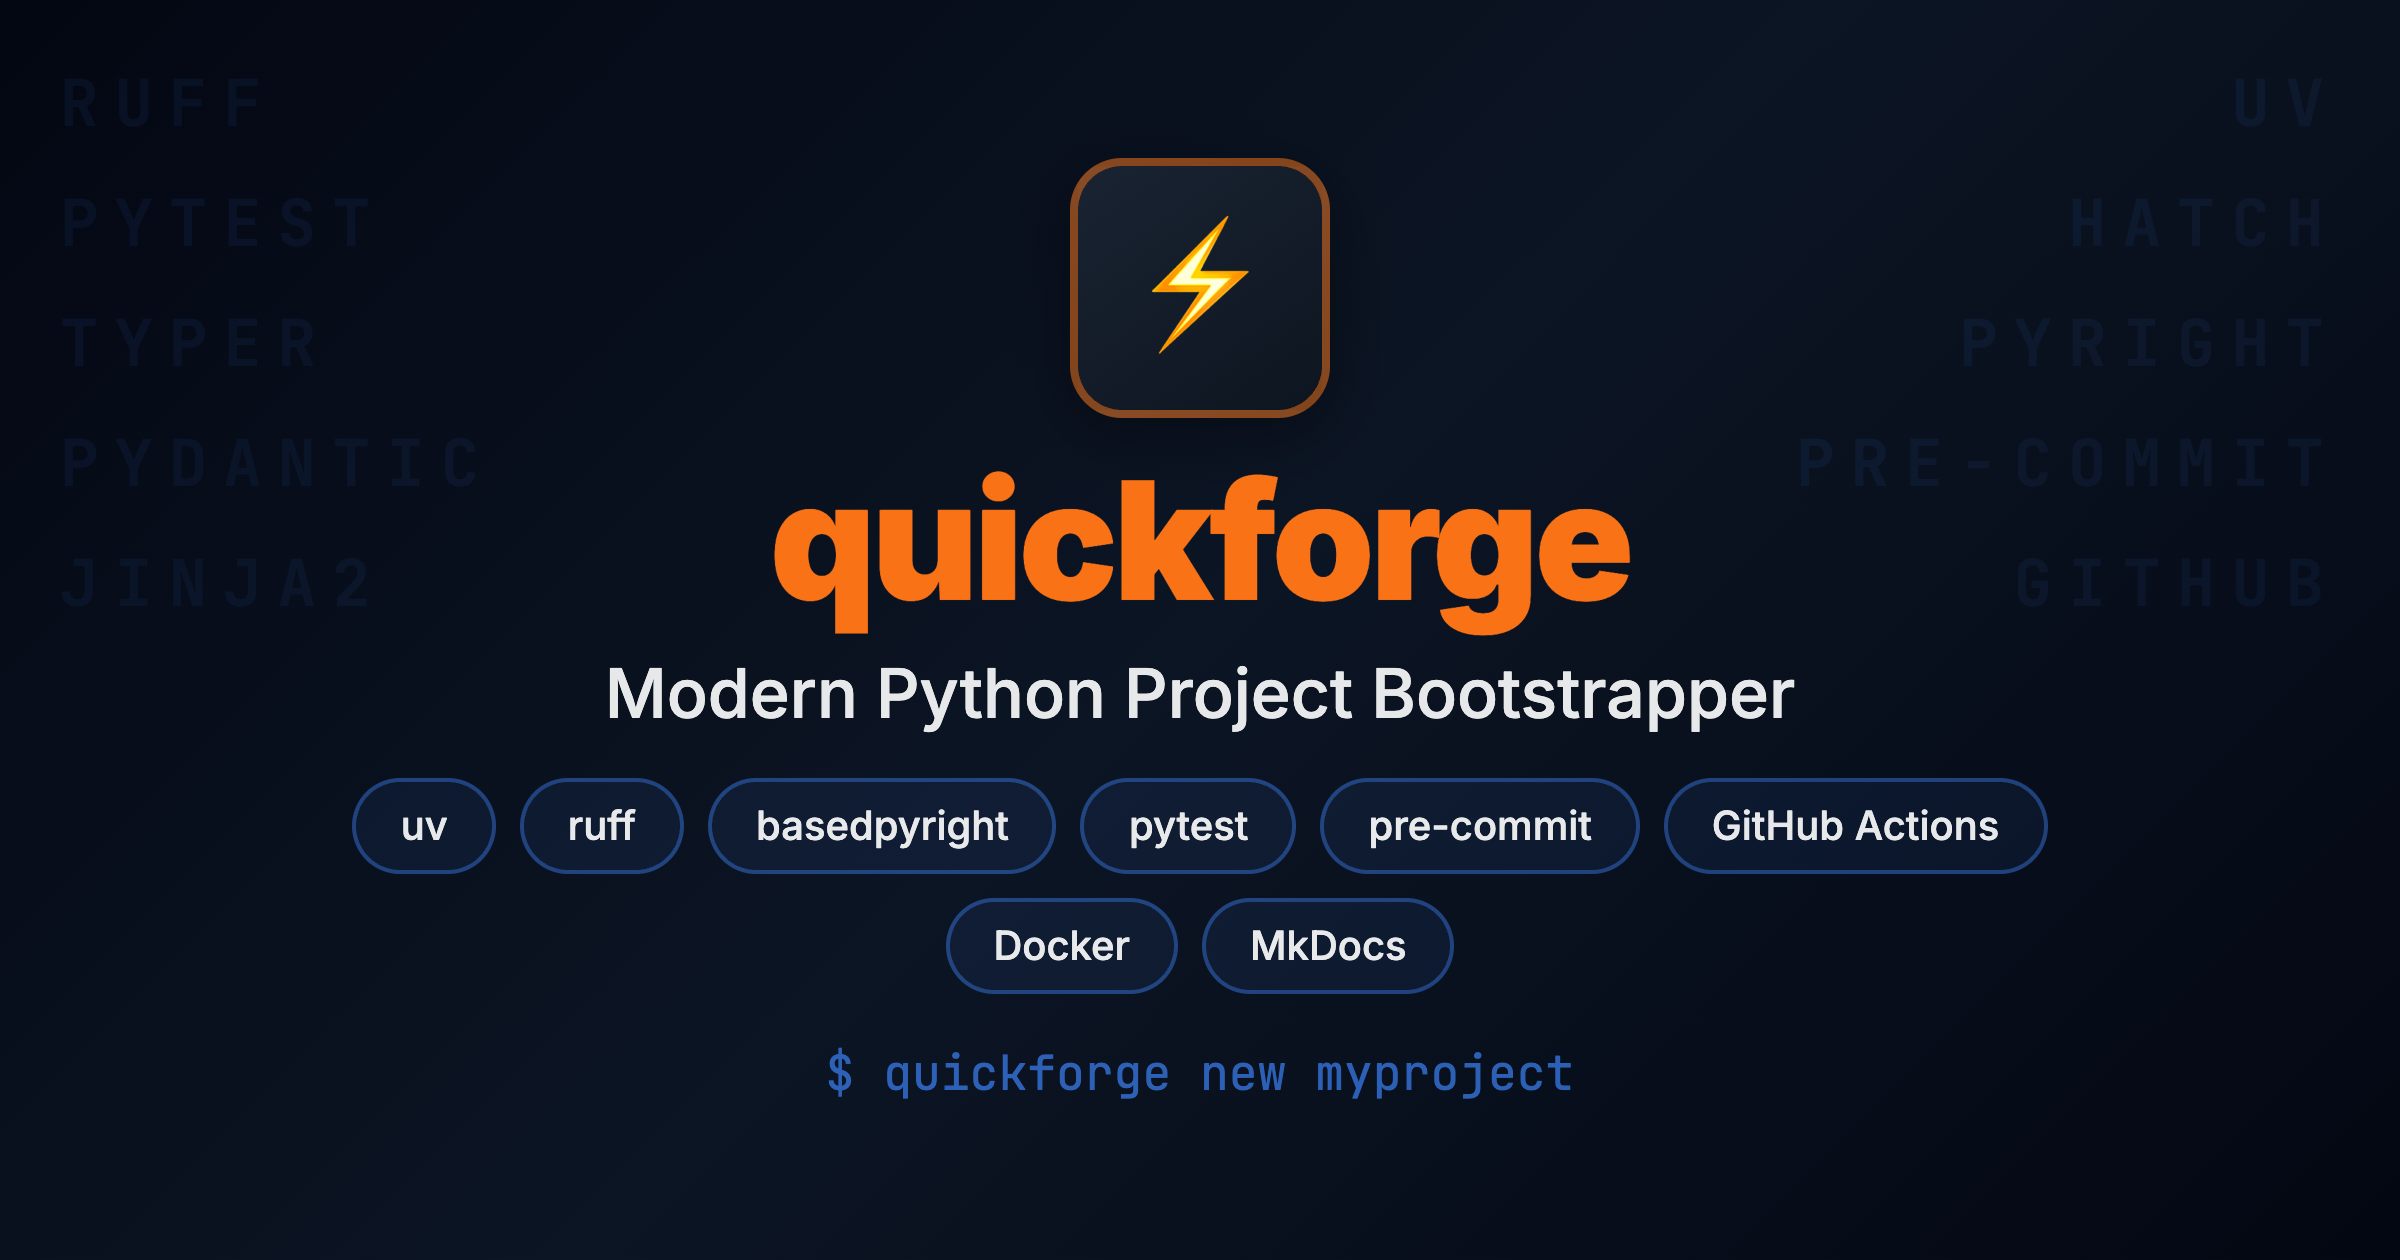
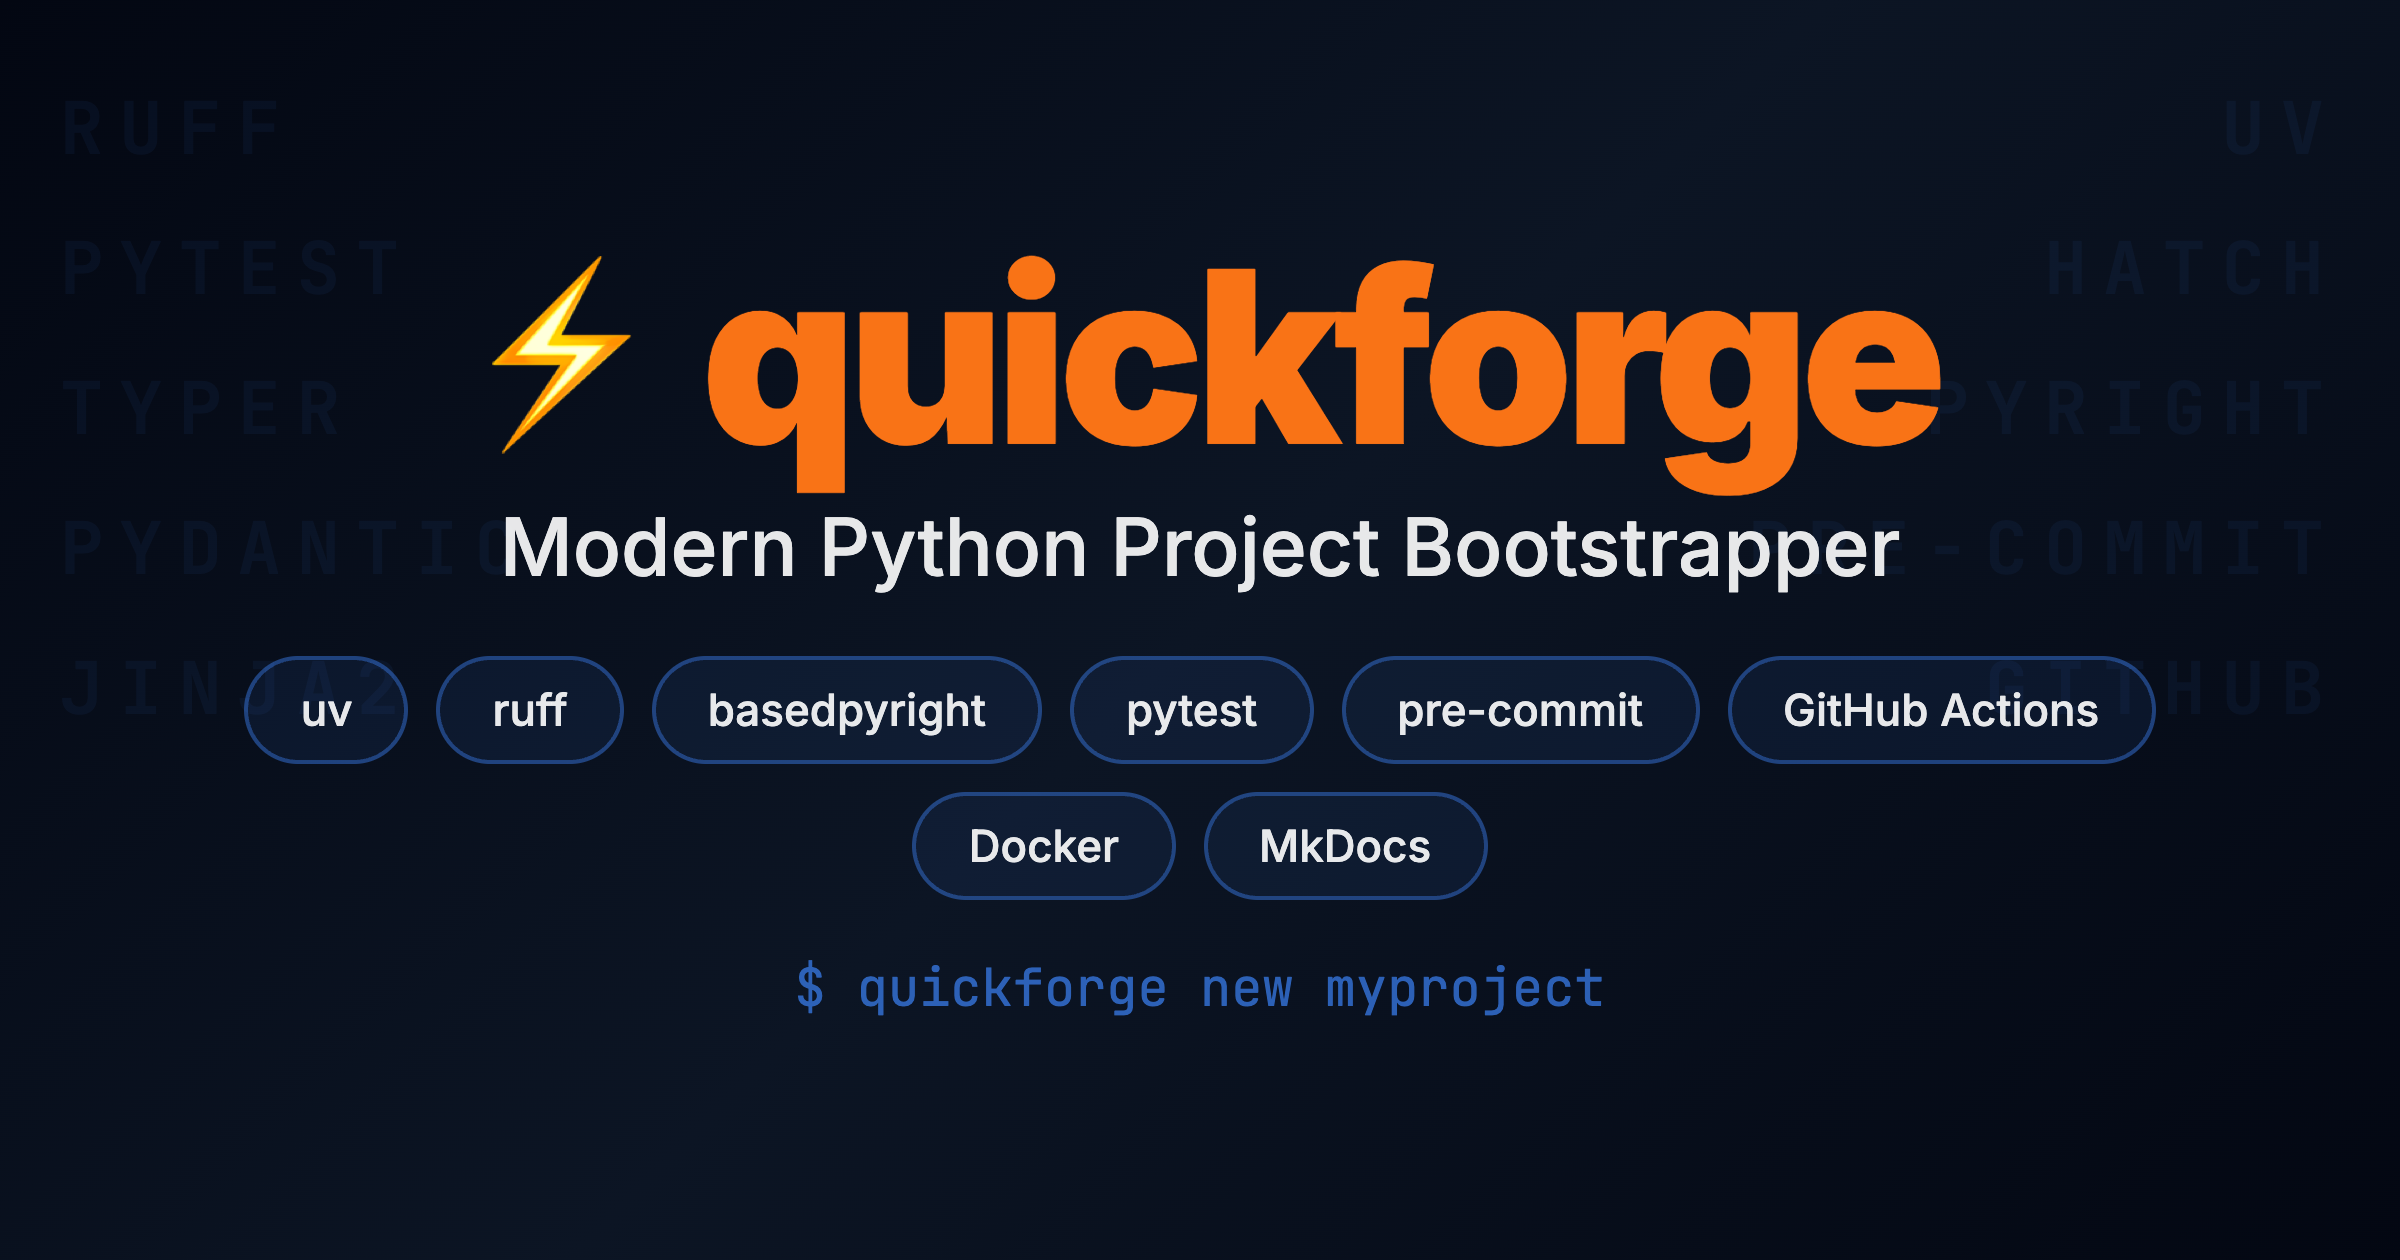
Make OG image text much bigger and bolder
Title bumped to 120px with inline lightning icon, tagline to 40px,
pills to 22px. Removed icon box to save vertical space - text now
fills the frame properly.

Generated with [Claude Code](https://claude.ai/code)
via [Happy](https://happy.engineering)

Changed region(s): [[0.0938, 0.1238, 0.9062, 0.8048], [0.3438, 0.8357, 0.6562, 0.8667]]

diff --git a/og-gen/og-home.html b/og-gen/og-home.html
@@ -34,25 +34,25 @@
     /* Background keywords - left side */
     .bg-words {
       position: absolute;
-      font-size: 32px;
+      font-size: 36px;
       font-weight: 700;
-      color: rgba(59, 130, 246, 0.07);
+      color: rgba(59, 130, 246, 0.06);
       letter-spacing: 8px;
       text-transform: uppercase;
       font-family: 'JetBrains Mono', monospace;
     }
     .bg-left { left: 30px; }
     .bg-right { right: 30px; text-align: right; }
-    .bg-words:nth-child(1) { top: 30px; }
-    .bg-words:nth-child(2) { top: 90px; }
-    .bg-words:nth-child(3) { top: 150px; }
-    .bg-words:nth-child(4) { top: 210px; }
-    .bg-words:nth-child(5) { top: 270px; }
-    .bg-words:nth-child(6) { top: 30px; }
-    .bg-words:nth-child(7) { top: 90px; }
-    .bg-words:nth-child(8) { top: 150px; }
-    .bg-words:nth-child(9) { top: 210px; }
-    .bg-words:nth-child(10) { top: 270px; }
+    .bg-words:nth-child(1) { top: 40px; }
+    .bg-words:nth-child(2) { top: 110px; }
+    .bg-words:nth-child(3) { top: 180px; }
+    .bg-words:nth-child(4) { top: 250px; }
+    .bg-words:nth-child(5) { top: 320px; }
+    .bg-words:nth-child(6) { top: 40px; }
+    .bg-words:nth-child(7) { top: 110px; }
+    .bg-words:nth-child(8) { top: 180px; }
+    .bg-words:nth-child(9) { top: 250px; }
+    .bg-words:nth-child(10) { top: 320px; }
 
     /* Main content container */
     .logo-container {
@@ -63,43 +63,37 @@
       z-index: 10;
       flex: 1;
       width: 100%;
-      padding: 40px 0;
+      padding: 20px 0;
     }
 
-    /* Icon box */
-    .icon-box {
-      width: 130px;
-      height: 130px;
-      background: linear-gradient(145deg, #1a2332, #0d1520);
-      border: 4px solid rgba(249, 115, 22, 0.5);
-      border-radius: 26px;
+    /* Lightning icon inline with title */
+    .title-row {
       display: flex;
       align-items: center;
-      justify-content: center;
-      margin-bottom: 12px;
-      box-shadow: 0 8px 32px rgba(0, 0, 0, 0.4);
+      gap: 20px;
+      margin-bottom: 10px;
     }
 
     .icon-text {
-      font-size: 70px;
+      font-size: 100px;
       line-height: 1;
     }
 
     /* App name */
     .app-name {
-      font-size: 82px;
+      font-size: 120px;
       font-weight: 900;
       color: #f97316;
-      letter-spacing: -2px;
-      margin-bottom: 6px;
+      letter-spacing: -4px;
       font-family: 'Inter', sans-serif;
+      line-height: 1;
     }
 
     /* Tagline */
     .tagline {
-      font-size: 34px;
+      font-size: 40px;
       color: rgba(255, 255, 255, 0.9);
-      margin-bottom: 22px;
+      margin-bottom: 30px;
       font-weight: 500;
       text-align: center;
     }
@@ -109,17 +103,17 @@
       display: flex;
       flex-wrap: wrap;
       justify-content: center;
-      gap: 12px;
-      max-width: 900px;
-      margin-bottom: 14px;
+      gap: 14px;
+      max-width: 1050px;
+      margin-bottom: 20px;
     }
 
     .pill {
-      padding: 10px 22px;
+      padding: 12px 26px;
       border: 2px solid rgba(59, 130, 246, 0.4);
       border-radius: 30px;
       color: rgba(255, 255, 255, 0.9);
-      font-size: 20px;
+      font-size: 22px;
       font-weight: 500;
       background: rgba(59, 130, 246, 0.08);
       font-family: 'Inter', sans-serif;
@@ -128,9 +122,9 @@
     /* Bottom code tagline */
     .code-tagline {
       font-family: 'JetBrains Mono', monospace;
-      font-size: 24px;
+      font-size: 26px;
       color: rgba(59, 130, 246, 0.7);
-      margin-top: 10px;
+      margin-top: 6px;
     }
   </style>
 </head>
@@ -151,10 +145,10 @@
 
   <!-- Main content -->
   <div class="logo-container">
-    <div class="icon-box">
+    <div class="title-row">
       <span class="icon-text">&#9889;</span>
+      <span class="app-name">quickforge</span>
     </div>
-    <div class="app-name">quickforge</div>
     <div class="tagline">Modern Python Project Bootstrapper</div>
 
     <div class="pills-container">
